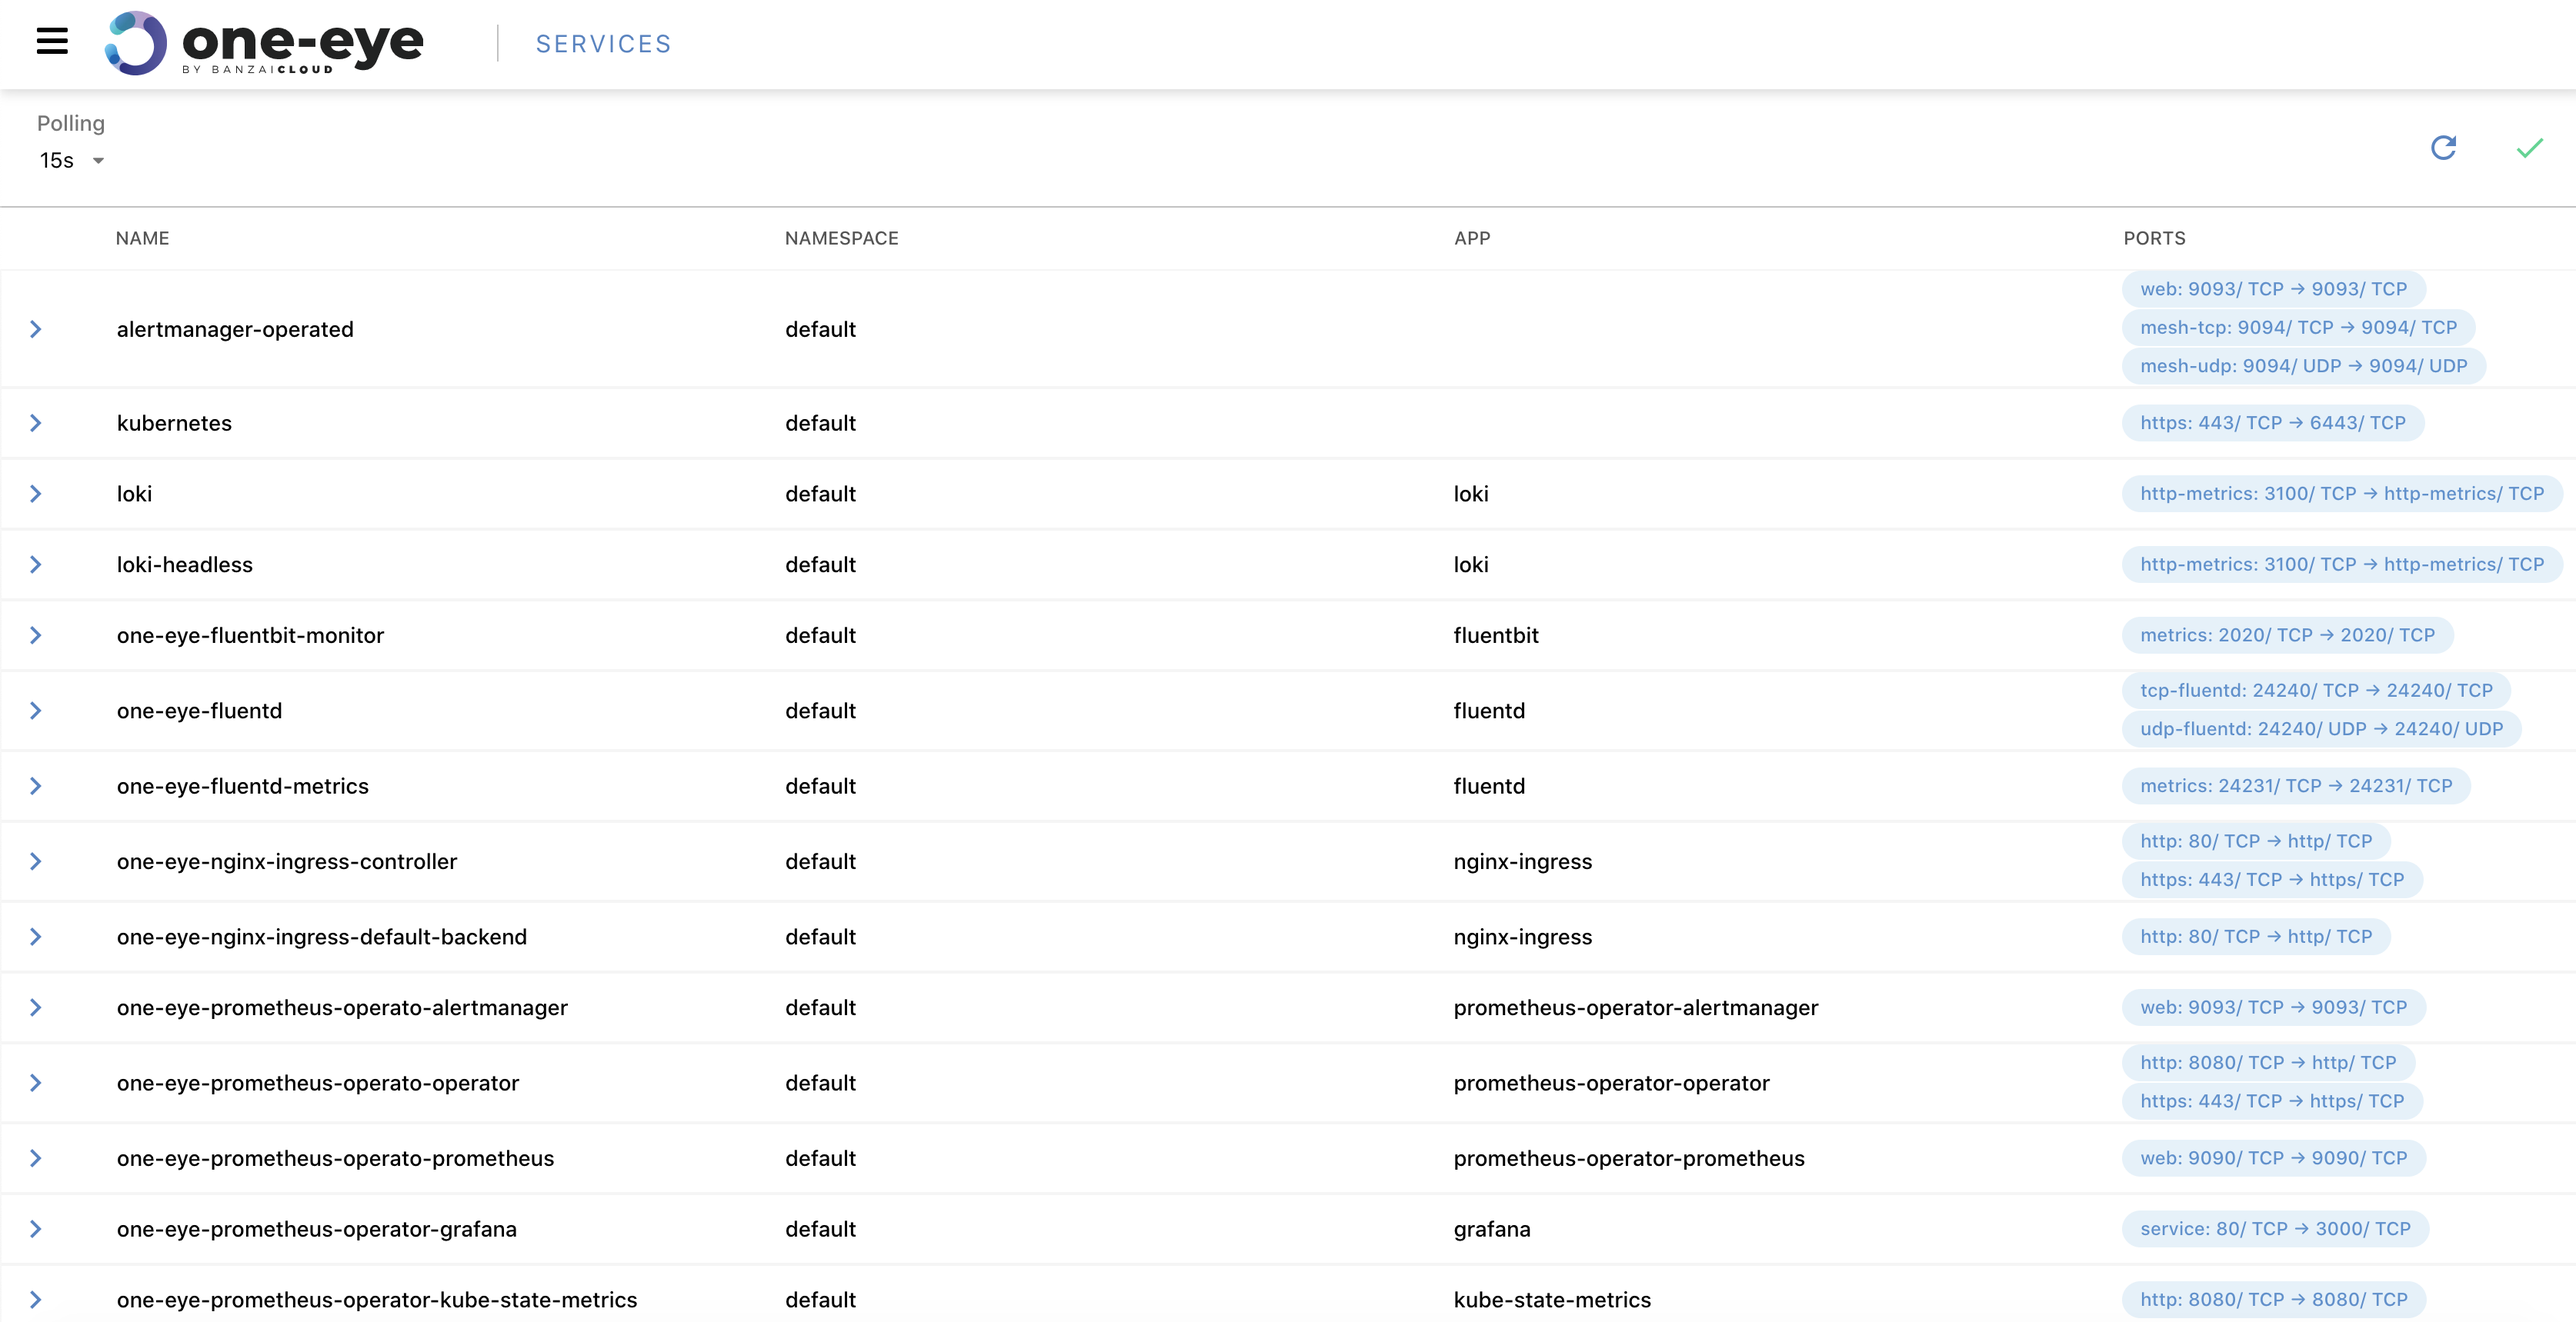
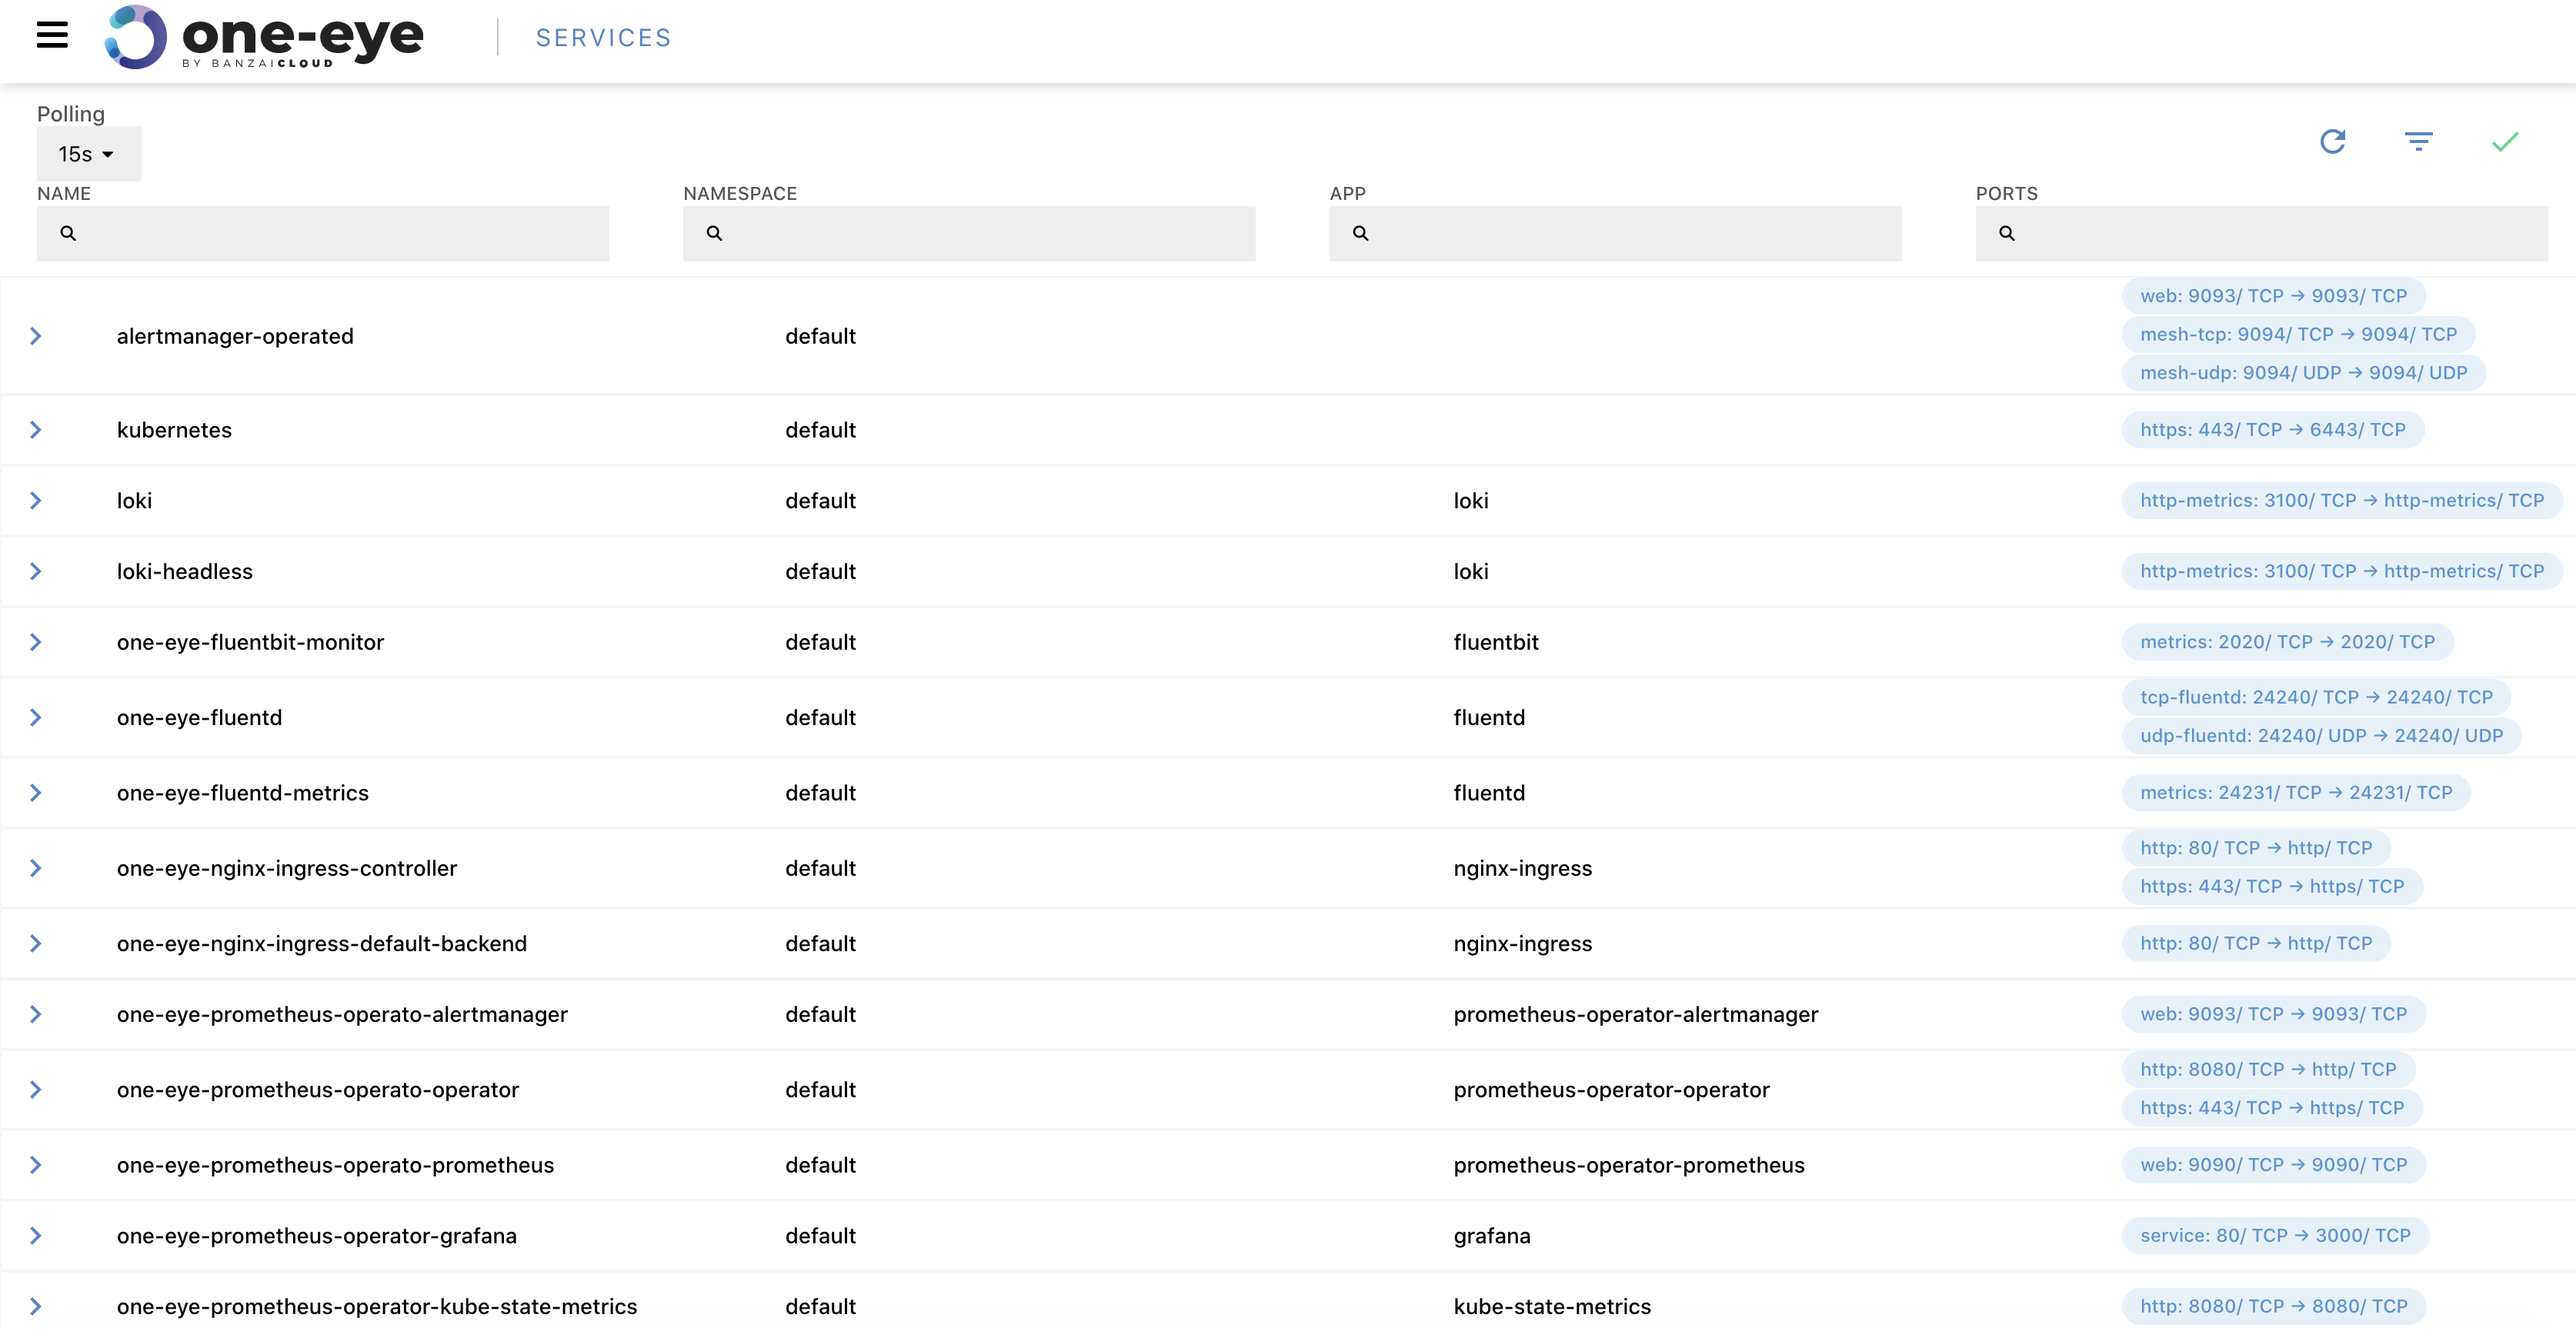
Documents the Services filter bar

diff --git a/docs/services/index.md b/docs/services/index.md
@@ -26,6 +26,8 @@ The list displays the following information about the services:
     metrics: 9153/ TCP → 9153/ TCP
     ```
 
+> To quickly find a service, or to filter the list to show only services that match a criteria, click **![Show filters](/docs/one-eye/headless/icon-filters.png)** to display the filter bar.
+
 Click on the name of a service to display its details.
 
 From the services list, you can drill down through the following levels to the underlying resources of the infrastructure: [List of services](#service-list) > [Service](#service) > [Pod](#pod) > [Node](#node)
